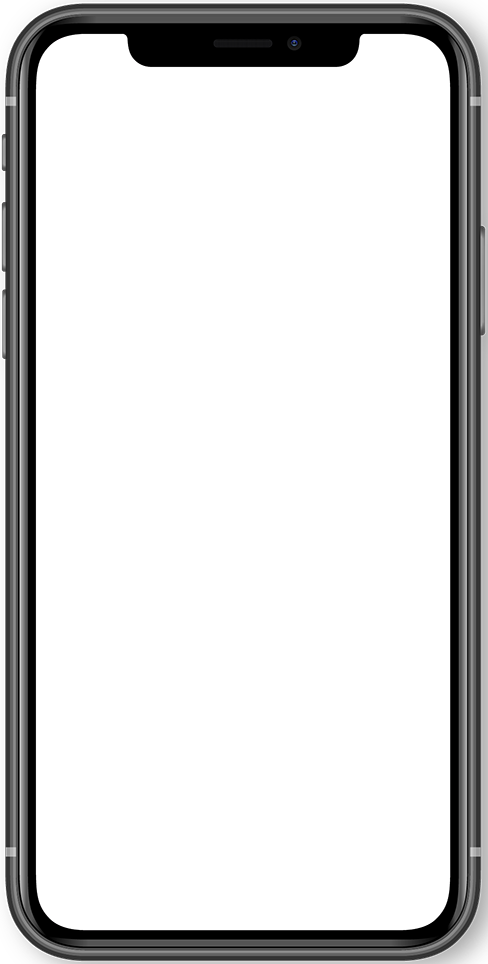
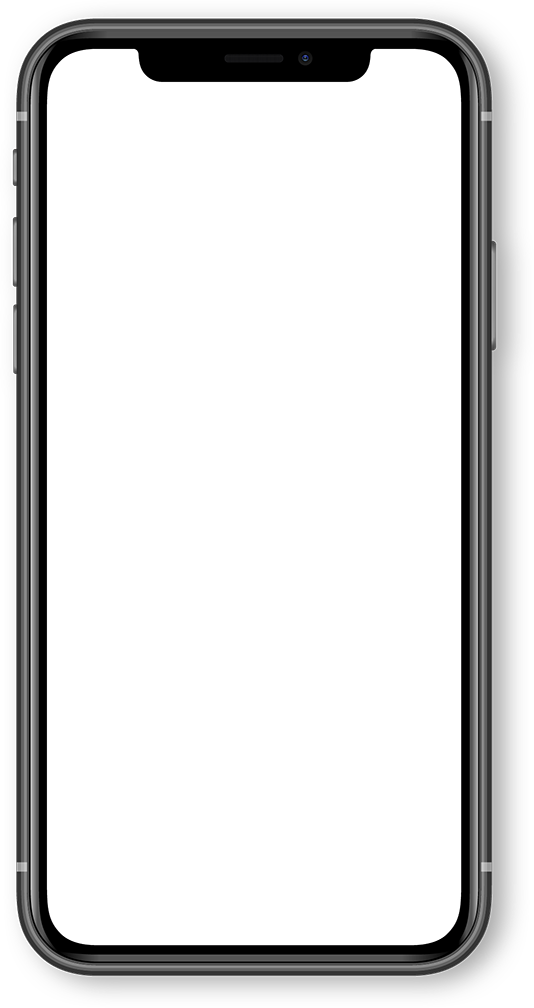
fix(ui): ui

Changed region(s): [[0.0, 0.0, 1.0, 1.0]]

diff --git a/packages/views/src/pages/editor/index.scss b/packages/views/src/pages/editor/index.scss
@@ -25,16 +25,16 @@
                 position: relative;
                 flex: 1;
                 margin: auto;
-                width: 368px;
-                padding-left: 28px;
-                padding-right: 22px;
+                width: 400px;
+                padding-left: 35px;
+                padding-right: 55px;
                 height: 100%;
                 overflow: auto;
                 .md-view-layer {
-                    height: 690px;
+                    height: 673px;
                     position: relative;
                     overflow: auto;
-                    top: 34px;
+                    top: 36px;
                     overflow: auto;
                     .md-view-container {
                       overflow: auto;
@@ -45,11 +45,11 @@
                     position: absolute;
                     top: 0;
                     left: 0;
-                    width: 375px;
+                    width: 400px;
                     height: 758px;
                     background: url('../../assets/img/iPhone-11.png') no-repeat;
                     background-size: contain;
-                    background-position: center;
+                    background-position: top;
                     pointer-events: none;
                 }
             }
